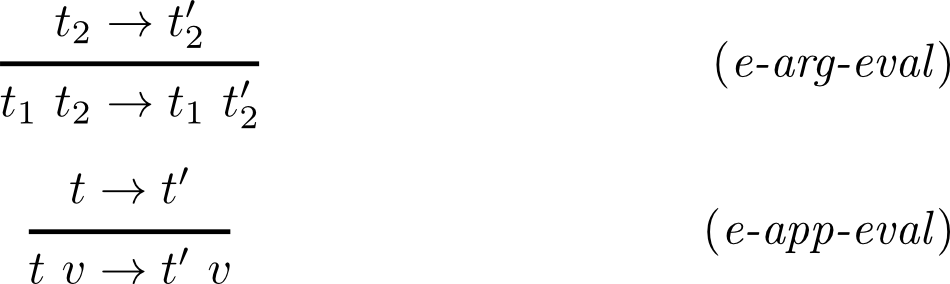
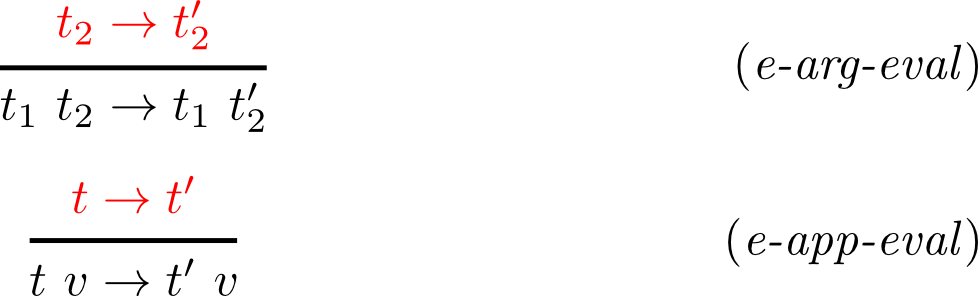
added highlights to premises, clarity proofreading

diff --git a/_posts/2012-11-23-math-envy-and-coffeescripts-foibles-2.md b/_posts/2012-11-23-math-envy-and-coffeescripts-foibles-2.md
@@ -13,17 +13,17 @@ meta:
   _edit_last: "1"
 ---
 
-In the [previous post](/2012/11/27/math-envy-and-coffeescripts-foibles/) I presented the basics of operational semantics and showed how derivations trees could be used to differentiate two terms that were syntactically similar. This post develops the closing thoughts from that post further with the introduction of type rules, example tools for automating evaluation and type derivation, and a concrete definition of semantic ambiguity itself. The primary goal is to establish the best possible way to detect ambiguous term pairings and then outline what will work for a tool that can be generalized beyond the CoffeeScript subset.
+In the [previous post](/2012/11/27/math-envy-and-coffeescripts-foibles/) I presented the basics of operational semantics and showed how derivations trees can be used to differentiate two terms that are syntactically similar. This post develops the closing thoughts further with the introduction of type rules, example tools for automating evaluation and type derivation, and a concrete definition of semantic ambiguity. The primary goal is to establish the best way to detect ambiguous term pairings and then outline what will work for a tool that can be generalized beyond the CoffeeScript subset.
 
 ## Type Rules
 
-Type rules are similar in construction to evaluation rules consisting of a premise and conclusion. As with evaluation rules the premise establishes the preconditions for the conclusion. Again, each rule is tagged with a name for reference but preceded by a _t_ in this case to distinguish them from inference rules (_e-*_).
+Type rules are similar in construction to evaluation rules, consisting of a premise and conclusion. As with evaluation rules the premise establishes the preconditions for the conclusion. Again, each rule is tagged with a name for reference but preceded by a _t-_ in this case to distinguish them from inference rules (_e-_).
 
 <div class="center">
   <img src="/assets/images/diagrams/cs-type-rules.png"></img>
 </div>
 
-For type rules without a premise like _t-true_ and _t-false_ we take them to be true out of hand. That is, the terms `true` and `false` both have the type `Bool`. The others are more complicated.
+Type rules without a premise like _t-true_ and _t-false_ are taken to be true out of hand. That is, the terms `true` and `false` both have the type `Bool`. The others are more complicated.
 
 <div class="center">
   <img src="/assets/images/diagrams/cs-type-rules-lambda-term.png"></img>
@@ -35,17 +35,17 @@ _t-lambda_ illustrates how to determine the type of a lambda term like `(-> true
   <img src="/assets/images/diagrams/cs-type-rules-lambda-invocation.png"></img>
 </div>
 
-_t-inv_ shows how to determine the type of lambda invocation like `(-> true)()`. The premise states if the lambda term has the type `X -> T` the term `λt()` has the type `T`. This fits with the CoffeeScript `(-> true)()` which obviously evaluates to `true` and has the type `Bool`. It's worth noting that `X` is constrained to be the `Unit` or empty type since no argument is used.
+_t-inv_ shows how to determine the type of lambda invocation like `(-> true)()`. The premise states if the lambda term has the type `X -> T` the term `λt()` has the type `T`. For example, `(-> true)()` evaluates to `true` and has the type `Bool`. It's worth noting that `X` is constrained to be the `Unit` or empty type since no argument is used.
 
 <div class="center">
   <img src="/assets/images/diagrams/cs-type-rules-lambda-application.png"></img>
 </div>
 
-_t-app_ is the type rule for lambda applications, eg. `(-> true) false`. The premise says that if the lambda term `λt` on the left has the type `X -> T` the conclusion is that the application will have the result type of the lambda term. Again, the type of an application, like invocation, is only concerned with the type of the *first* lambda's subterm `t` and it ignores the argument that it consumes.
+_t-app_ is the type rule for lambda applications, eg. `(-> true) false`. The premise says that if the lambda term `λt` on the left has the type `X -> T` the conclusion is that the application will have the result type of the lambda term. Again, the type of an application, like invocation, is only concerned with the type of the *first* lambda's subterm `t` and it ignores the type of the argument that it's applied to.
 
 ## Type Rule Stacking
 
-Just like derivation trees with evaluation rules this notation makes it easy to establish the type of a term by stacking the type rules on one another. Taking a very simple example, some diagrams will illustrate how this works:
+This notation makes it easy to establish the type of a term by stacking the type rules on one another in the same fashion as evaluation rules. Taking a very simple example, some diagrams will illustrate how this works:
 
 ```coffeescript
 (-> true)
@@ -89,7 +89,7 @@ _Note: The next five sections cover an implementation of a lexer, parser, evalua
 
 ## Happy Parsing
 
-It's time to build something concrete from the formal notion of evaluation and types. An AST for this CoffeeScript subset will provide enough information to perform evaluation and establish derivation trees for both evaluation and types. I've chosen Haskell along with the Alex and Happy libraries to implement a simple lexer and parser. As you would expect the parser BNF definition looks very similar to the grammar definition presented in the previous post:
+It's time to build something concrete from the formal notion of evaluation and types. An AST for this CoffeeScript subset will provide enough information to perform evaluation and establish derivation trees for both evaluation and types. I've chosen Haskell along with the [Alex](http://www.haskell.org/alex/) and [Happy](http://www.haskell.org/happy/) tools to implement a simple lexer and parser. As you would expect the parser grammar definition looks very similar to the grammar definition presented in the previous post:
 
 ```
 %token
@@ -114,13 +114,13 @@ Value  : bool                       { BooleanExpr $1 }
 
  You can view the full lexer and parser implementations [here](https://gist.github.com/8d7db37e8a6dc99e1ea3).
 
-There are two differences from the original grammar definition. Lambda terms in parenthesis are just a convenience for readability. More importantly a correction must be made to application of two terms, allowing for any term as the left side (applicand) [2]. This enables the grammar to reproduce the original issue since `(-> true)() -> false` translates to an invocation applied to a lambda term. The corrected grammar:
+There are two differences from the original grammar definition. Lambda terms in parenthesis are just a convenience for readability. More importantly a correction must be made to application of two terms, allowing for any term as the left side (the _applicand_) [2]. This enables the grammar to reproduce the original issue, since `(-> true)() -> false` translates to an invocation applied to a lambda term. The corrected grammar:
 
 <div class="center">
   <img style="width: 200px;" src="/assets/images/diagrams/cs-grammar-corrected.png"></img>
 </div>
 
-Also, a correction and an addition must be made to the inference rules to ensure that any term type is permitted as the left half of an application, and that it is fully evaluated before applying it.
+Also, a correction and an addition must be made to the inference rules presented in the previous post. This will ensure that any term type is permitted as the left half of an application, and that it is fully evaluated before applying it.
 
 <div class="center">
   <img src="/assets/images/diagrams/cs-inference-rules-corrected.png"></img>
@@ -130,7 +130,7 @@ Where _e-arg-eval_ ensures that the argument of an application is fully evaluate
 
 ## Matching Rules
 
-The abstract representation produced by the parser is simple tree structure built with Haskell types. Pattern matching can be used with the type and inference rules to produce evaluation and derivation results. To start let's look at a simple evaluator and derivation builder implementation.
+The abstract representation produced by the parser is a simple tree structure built with Haskell types. Pattern matching can be used with the type and inference rules to produce evaluation and derivation results. To start let's look at a simple evaluator and derivation builder.
 
 ```haskell
 -- an enumeration of each inference rule
@@ -147,21 +147,21 @@ data RuleMatch = None | RuleMatch InfRule (Maybe Expr) Expr
 matchRule :: Expr -> RuleMatch
 ```
 
-Both the evaluator and the derivation builder will operate based on the inference rule that apply to each term and its subterms. The function `matchRule` takes an expression, `Expr`, and provides three pieces of information in a `RuleMatch` result: the inference rule that applies to the term, an optional term for the premise of an inference rule pulled from the body of the parent term, and a term for the conclusion of the inference rule also pulled from the body of the parent term. There are pattern matching definitions for each rule.
+Both the evaluator and the derivation builder will operate based on the inference rules that apply to each term and its subterms. The function `matchRule` takes an expression, `Expr`, and provides three pieces of information in a `RuleMatch` result: the inference rule that applies to the term, an optional term for the premise of an inference rule pulled from the body of the parent term, and a term for the conclusion of the inference rule also pulled from the body of the parent term. There are pattern matching definitions for each rule.
 
 ```haskell
 matchRule (BooleanExpr _) = None
 matchRule (Lambda _)      = None
 ```
 
-The value terms `true`, `false` and `(-> x)` form the base case of the rule match. That is, whenever another function requests a rule match on the value terms `None` is provided to signal that the term has been fully evaluated
+The value terms `true`, `false` and `(-> x)` are the base case of `matchRule`. That is, whenever another function requests a rule match on the value terms `None` is provided to signal that the term has been fully evaluated.
 
 ```haskell
 -- Rule: e-inv
 matchRule (Invoke (Lambda t)) = RuleMatch Inv Nothing t
 ```
 
-Invocation is simple. It can only be applied to a lambda term and the result of the invocation is the lambda's subterm; eg. `(-> true)()` evaluates to `true`. An invocation on anything else will simply drop through this match and ultimately to the catch all `error` case. For example the CoffeeScript `true()` is invalid. Its abstract representation from the parser is `Invoke (BooleanExpr True)` which clearly won't match here. On a match, the `RuleMatch` result contains the rule tag for invocation `Inv`, nothing for an inference rule premise since there isn't one for _e-inv_ and the subterm `t` for further derivation in the conclusion.
+Invocation can only be applied to a lambda term and the result of the invocation is the lambda's subterm, eg. `(-> true)()` evaluates to `true`. An invocation on anything else will simply drop through this match and ultimately to the catch all `error` case. For example the CoffeeScript `true()` is invalid. Its abstract representation from the parser is `Invoke (BooleanExpr True)` which clearly won't match here. On a match, the `RuleMatch` result contains the rule tag for invocation `Inv`, nothing for an inference rule premise since there isn't one for _e-inv_ and the subterm `t` for further derivation in the conclusion.
 
 ```haskell
 -- Rule: e-app
@@ -169,7 +169,7 @@ matchRule (Apply (Lambda t) (BooleanExpr _)) = RuleMatch App Nothing t
 matchRule (Apply (Lambda t) (Lambda _))      = RuleMatch App Nothing t
 ```
 
-_e-app_ is also simple. Like invocation it only works with lambda terms, but it carries the addition requirement that the argument be a value term. The grammar shows that the only `v` or value terms are lambdas and boolean values so there's a match for those cases here. When there's a match the rule tag is `App` and the lambda subterm is again provided for possible further inspection/operation.
+Like invocation _e-app_ only works with lambda terms, but it carries the addition requirement that the argument be a value term. The grammar shows that the only `v` (value) terms are lambdas and boolean values so there's a match for those cases here. When there's a match the rule tag is `App` and the lambda subterm is again provided for possible further inspection/operation.
 
 ```haskell
 -- Rule: e-arg-eval
@@ -187,7 +187,7 @@ _e-arg-eval_ and _e-app-eval_ are more complicated than either _e-inv_ or _e-app
   <img src="/assets/images/diagrams/cs-inference-rules-app-argeval.png"></img>
 </div>
 
-Both rules require that some evaluation take place on one of the subterms. More importantly the shape of the term remains the same. Neither _e-arg-eval_ or _e-app-eval_ change the shape of the term to which they apply, only the shape of the sub terms. This is in contrast to _e-inv_ and _e-app_ which discard the invocation operator and second term respectively. As a result the `RuleMatch` contains the subterm that needs to be evaluated further and the other subterm that remains stagnant. Note that the _e-arg-eval_ rule is applied first so that the _e-app-eval_ rule can ignore the second subterm under the assumption that it's a value term (ie, not `Invoke` or `Apply`).
+Both rules require that some evaluation take place on one of the subterms. More importantly the shape of the term remains the same. Neither _e-arg-eval_ or _e-app-eval_ change the shape of the term to which they apply, only the shape of the sub terms. This is in contrast to _e-inv_ and _e-app_ which discard the invocation operator and second term respectively. As a result the `RuleMatch` contains the subterm that needs to be evaluated further and the other subterm that remains stagnant. Note that in the function definition the _e-arg-eval_ rule is matched first so that the _e-app-eval_ rule can ignore the second subterm under the assumption that it's a value term (not `Invoke` or `Apply`).
 
 ```haskell
 matchRule t = error $ "No inference rule applies for: " ++ (show t)
@@ -210,7 +210,7 @@ eval t =
       (RuleMatch AppEval (Just t1) t2) -> Apply (eval t1) t2
 ```
 
-`eval` performs a single step of evaluation according the the inference rules. The first case match returns the original term `t` because `None` is the match for fully evaluated value terms like `true`, `false`, and `(-> x)`. The second match handles both the `Inv` and `App` by returning the subterm of the invoked or applied lambda term. That is, the `matchRule` function does a bit of evaluation for these two rules by stripping the applied lambda term so `eval` simply works on the subterm. For example, `(-> true) true` and `(-> true)()` become `true` which is `eval`'d and matches the base case.
+`eval` performs a single step of evaluation according the the inference rules. The first case match returns the original term `t` because `None` is the match for fully evaluated value terms like `true`, `false`, and `(-> x)`. The second match handles both the `Inv` and `App` by returning the subterm of the invoked or applied lambda term. The `matchRule` function does a bit of evaluation for these two rules by stripping the applied lambda term. For example, `(-> true) true` and `(-> true)()` become `true`.
 
 ```haskell
       (RuleMatch ArgEval (Just t1) t2) -> Apply t2 (eval t1)
@@ -244,7 +244,7 @@ The `Derivation` data type is comprised of a tag from the `InfRule` enumeration,
 Apply (Invoke (Lambda (Lambda (BooleanExpr True)))) (BooleanExpr False)
 ```
 
-In english, the application of an invocation of a lambda with a lambda subterm to a boolean value. The resulting derivation tree in the original derivation tree notation takes the form:
+In english, the application of an invocation of a lambda with a lambda subterm to a boolean value. The resulting tree in the original notation takes the form:
 
 <div class="center">
   <img src="/assets/images/diagrams/cs-derivation-trees-ast-example.png"></img>
@@ -265,10 +265,9 @@ Derivation AppEval
   (Apply (Lambda (BooleanExpr True)) (BooleanExpr False))
 ```
 
-Working from the outside in, it's clear that the applicand `(-> (-> true)()` needs evaluation before it can be applied to the argument `false` (_e-app-eval_). The premise of _e-app-eval_ requires that the applicand take a step and here that means an invocation (_e-inv_). Finally the result of the invocation `(-> true)` is applied to the `false` (_e-app_) as the "conclusion" of the _e-app-eval_. In reality, _e-app_ is applied to the result of the first derivation tree as it is with the logic notation.
+It's clear that the applicand `(-> (-> true)()` needs evaluation using _e-app-eval_ before it can be applied to the argument `false`. The premise of _e-app-eval_ requires that the applicand take a step and here that means an invocation with _e-inv_. Finally the result of the invocation `(-> true)` is applied to the `false` with _e-app_ as the "conclusion" of the _e-app-eval_. In reality, _e-app_ is applied to the result of the first derivation tree as it is with the logic notation.
 
 ```haskell
--- build a derivation from an expression
 -- build a derivation from an expression
 derive :: Expr -> Derivation
 derive t =
@@ -280,7 +279,7 @@ derive t =
 
 ```
 
-The `derive` function works in a similar fashion to `eval`. For a value/`None` result from `matchRules` there are no inference rules that apply. For _e-inv_ or _e-app_, `derive` can recurse and build a derivation from the lambda's subterm. For _e-arg-eval_ or _e-app-eval_ the premise must be further derived and the conclusion is a derivation for the original term `t` with one evaluation step applied. That is, evaluating the subterm `t1` once inside the original term `t`. The use of `eval` to do that in this case is a convenience.
+The `derive` function works in a similar fashion to `eval`. For a value/`None` result from `matchRules` there are no inference rules that apply. For _e-inv_ or _e-app_, `derive` can recurse and build a derivation from the lambda's subterm. For _e-arg-eval_ or _e-app-eval_ the premise must be further derived and the conclusion is a derivation for the original term `t` with one evaluation step applied. That is, evaluating the subterm `t1` once inside the original term `t`. The use of `eval` to do that may look funny but it's just a convenience.
 
 ## Automating Type Derivation
 
@@ -293,7 +292,7 @@ data RuleMatch  = None | RuleMatch TypeRule Expr
 matchRule :: Expr -> RuleMatch
 ```
 
-The `RuleMatch` definition for types requires one less `Expr` for the `derive` and `fixType` definitions, as those function only require the first subterms in each expression where they are relevant. This is in contrast to `eval` which required both the conclusion and premise terms. More on this shortly.
+The `RuleMatch` definition for types requires one less `Expr`. The `derive` and `fixType` definitions for types only require the first subterms in each expression. This is in contrast to `eval` which required both the conclusion and premise terms.
 
 ```haskell
 -- t-true & t-false
@@ -312,7 +311,7 @@ matchRule (Apply t@(Invoke _) _)  = RuleMatch App t
 matchRule (Apply t@(Apply _ _) _) = RuleMatch App t
 ```
 
-The `Apply` matches capture only valid applicands and let the rest fall through to the error case. It's also worth noting that each of the `Apply` matches discards the argument term because it's unnecessary to the type of the expression. This fits with the definition of the type rules presented earlier.
+The `Apply` matches capture only valid applicands and let the rest fall through to the error case. It's also worth noting that each of the `Apply` matches discard the argument term because it's unnecessary to the type of the expression. This fits with the definition of the type rules.
 
 Fixing the type of a given expression is a simple recursive effort on applications. The `Type` data type captures both the `Bool` result, and the recursive `Arrow` type. For example `(-> (-> true))` has the type `Arrow (Arrow Bool)`.
 
